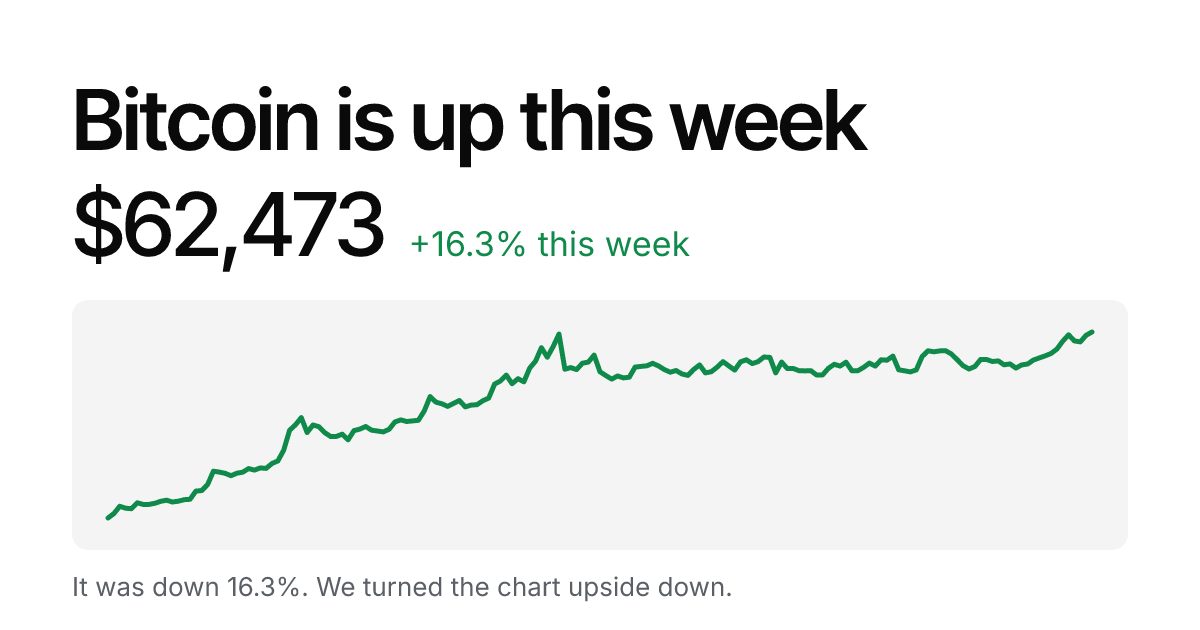
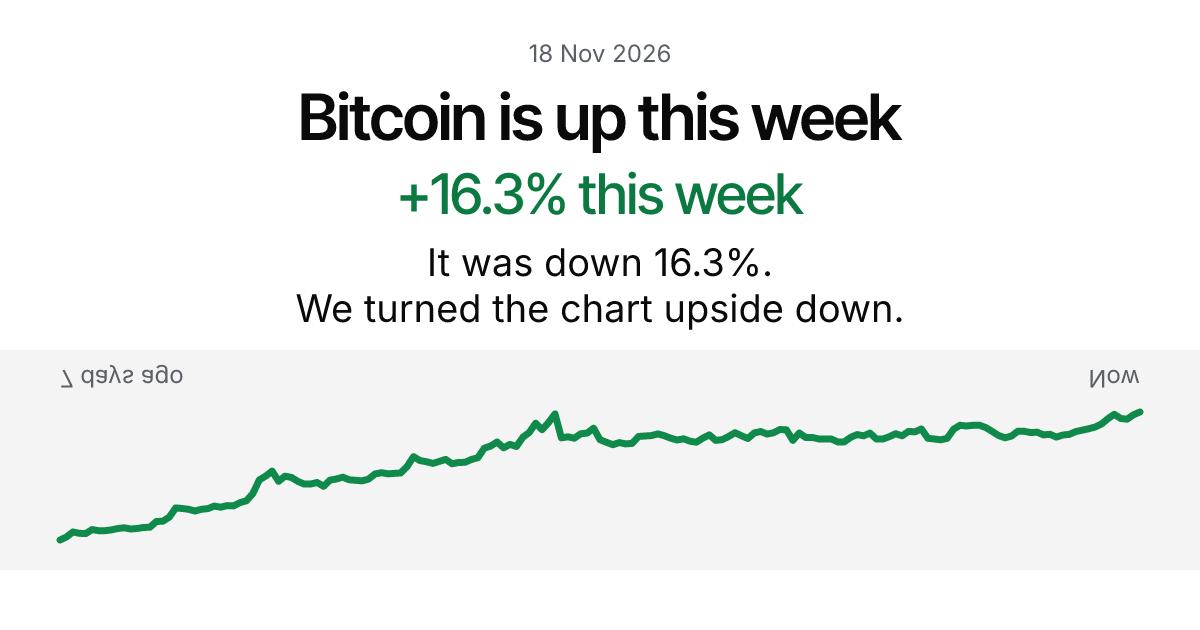
Apply review fixes to daily OG image
Centered layout, mirrored labels, hash cache buster, validated feeds, hardened workflow, Vercel ignore.

diff --git a/index.html b/index.html
@@ -4,17 +4,20 @@
 <meta charset="utf-8">
 <meta name="viewport" content="width=device-width, initial-scale=1">
 <title>Bitcoin is up</title>
-<meta name="description" content="Bitcoin is up this week. Live price and a 7-day chart.">
+<meta name="description" content="Bitcoin is up this week. Every week. Guaranteed.">
+<link rel="canonical" href="https://bitcoinisup.com/">
 <meta property="og:type" content="website">
+<meta property="og:site_name" content="Bitcoin is up">
 <meta property="og:title" content="Bitcoin is up">
-<meta property="og:description" content="Bitcoin is up this week. Live price and a 7-day chart.">
-<meta property="og:url" content="https://bitcoinisup.com">
-<meta property="og:image" content="https://bitcoinisup.com/og.png?v=20261118">
+<meta property="og:description" content="Bitcoin is up this week. Every week. Guaranteed.">
+<meta property="og:url" content="https://bitcoinisup.com/">
+<meta property="og:image" content="https://bitcoinisup.com/og.png?v=8802d5cf">
+<meta property="og:image:type" content="image/png">
 <meta property="og:image:width" content="1200">
 <meta property="og:image:height" content="630">
+<meta property="og:image:alt" content="Bitcoin was down 16.3% this week. The 7-day chart is turned upside down so it looks up.">
 <meta name="twitter:card" content="summary_large_image">
-<meta name="twitter:title" content="Bitcoin is up">
-<meta name="twitter:image" content="https://bitcoinisup.com/og.png?v=20261118">
+<meta name="twitter:image:alt" content="Bitcoin was down 16.3% this week. The 7-day chart is turned upside down so it looks up.">
 <link rel="preconnect" href="https://fonts.googleapis.com">
 <link rel="preconnect" href="https://fonts.gstatic.com" crossorigin>
 <link href="https://fonts.googleapis.com/css2?family=Inter:wght@400;500;600&family=Inter+Tight:wght@500;600&display=swap" rel="stylesheet">

diff --git a/README.md b/README.md
@@ -4,19 +4,19 @@ Static one-page site at https://bitcoinisup.com. It shows the live BTC price, th
 
 ## Daily social preview
 
-`.github/workflows/og.yml` runs every day at 06:00 UTC (and on manual dispatch). It runs `scripts/generate-og.mjs`, which:
+`.github/workflows/og.yml` runs every day at 06:23 UTC (and on manual dispatch). It runs `scripts/generate-og.mjs`, which:
 
 - fetches 7 days of BTC prices (CoinGecko, Coinbase as fallback)
 - renders `og.png` (1200x630) with `@resvg/resvg-js` and the bundled fonts in `scripts/fonts/`
-- sets `og:image` and `twitter:image` in `index.html` to `og.png?v=YYYYMMDD` so social platforms refetch daily
+- sets `og:image` in `index.html` to `og.png?v=<hash of the PNG>` and updates the image alt text
 
-The workflow commits `og.png` and `index.html` to `main` when they changed, and Vercel redeploys. If both feeds fail, the script exits non-zero and leaves `og.png` untouched.
+The workflow commits `og.png` and `index.html` to `main` when they changed, and Vercel redeploys. Link previews refresh on each platform as its cache expires. If both feeds fail, the script exits non-zero and leaves `og.png` untouched.
 
 ## Test locally
 
 ```
 npm ci
 node scripts/generate-og.mjs                      # live data
-FORCE_DIRECTION=down node scripts/generate-og.mjs # mirrored chart + note
-FORCE_DIRECTION=up node scripts/generate-og.mjs   # normal chart
+FORCE_DIRECTION=down node scripts/generate-og.mjs # synthetic data, writes og-test-down.png
+FORCE_DIRECTION=up node scripts/generate-og.mjs   # synthetic data, writes og-test-up.png
 ```
